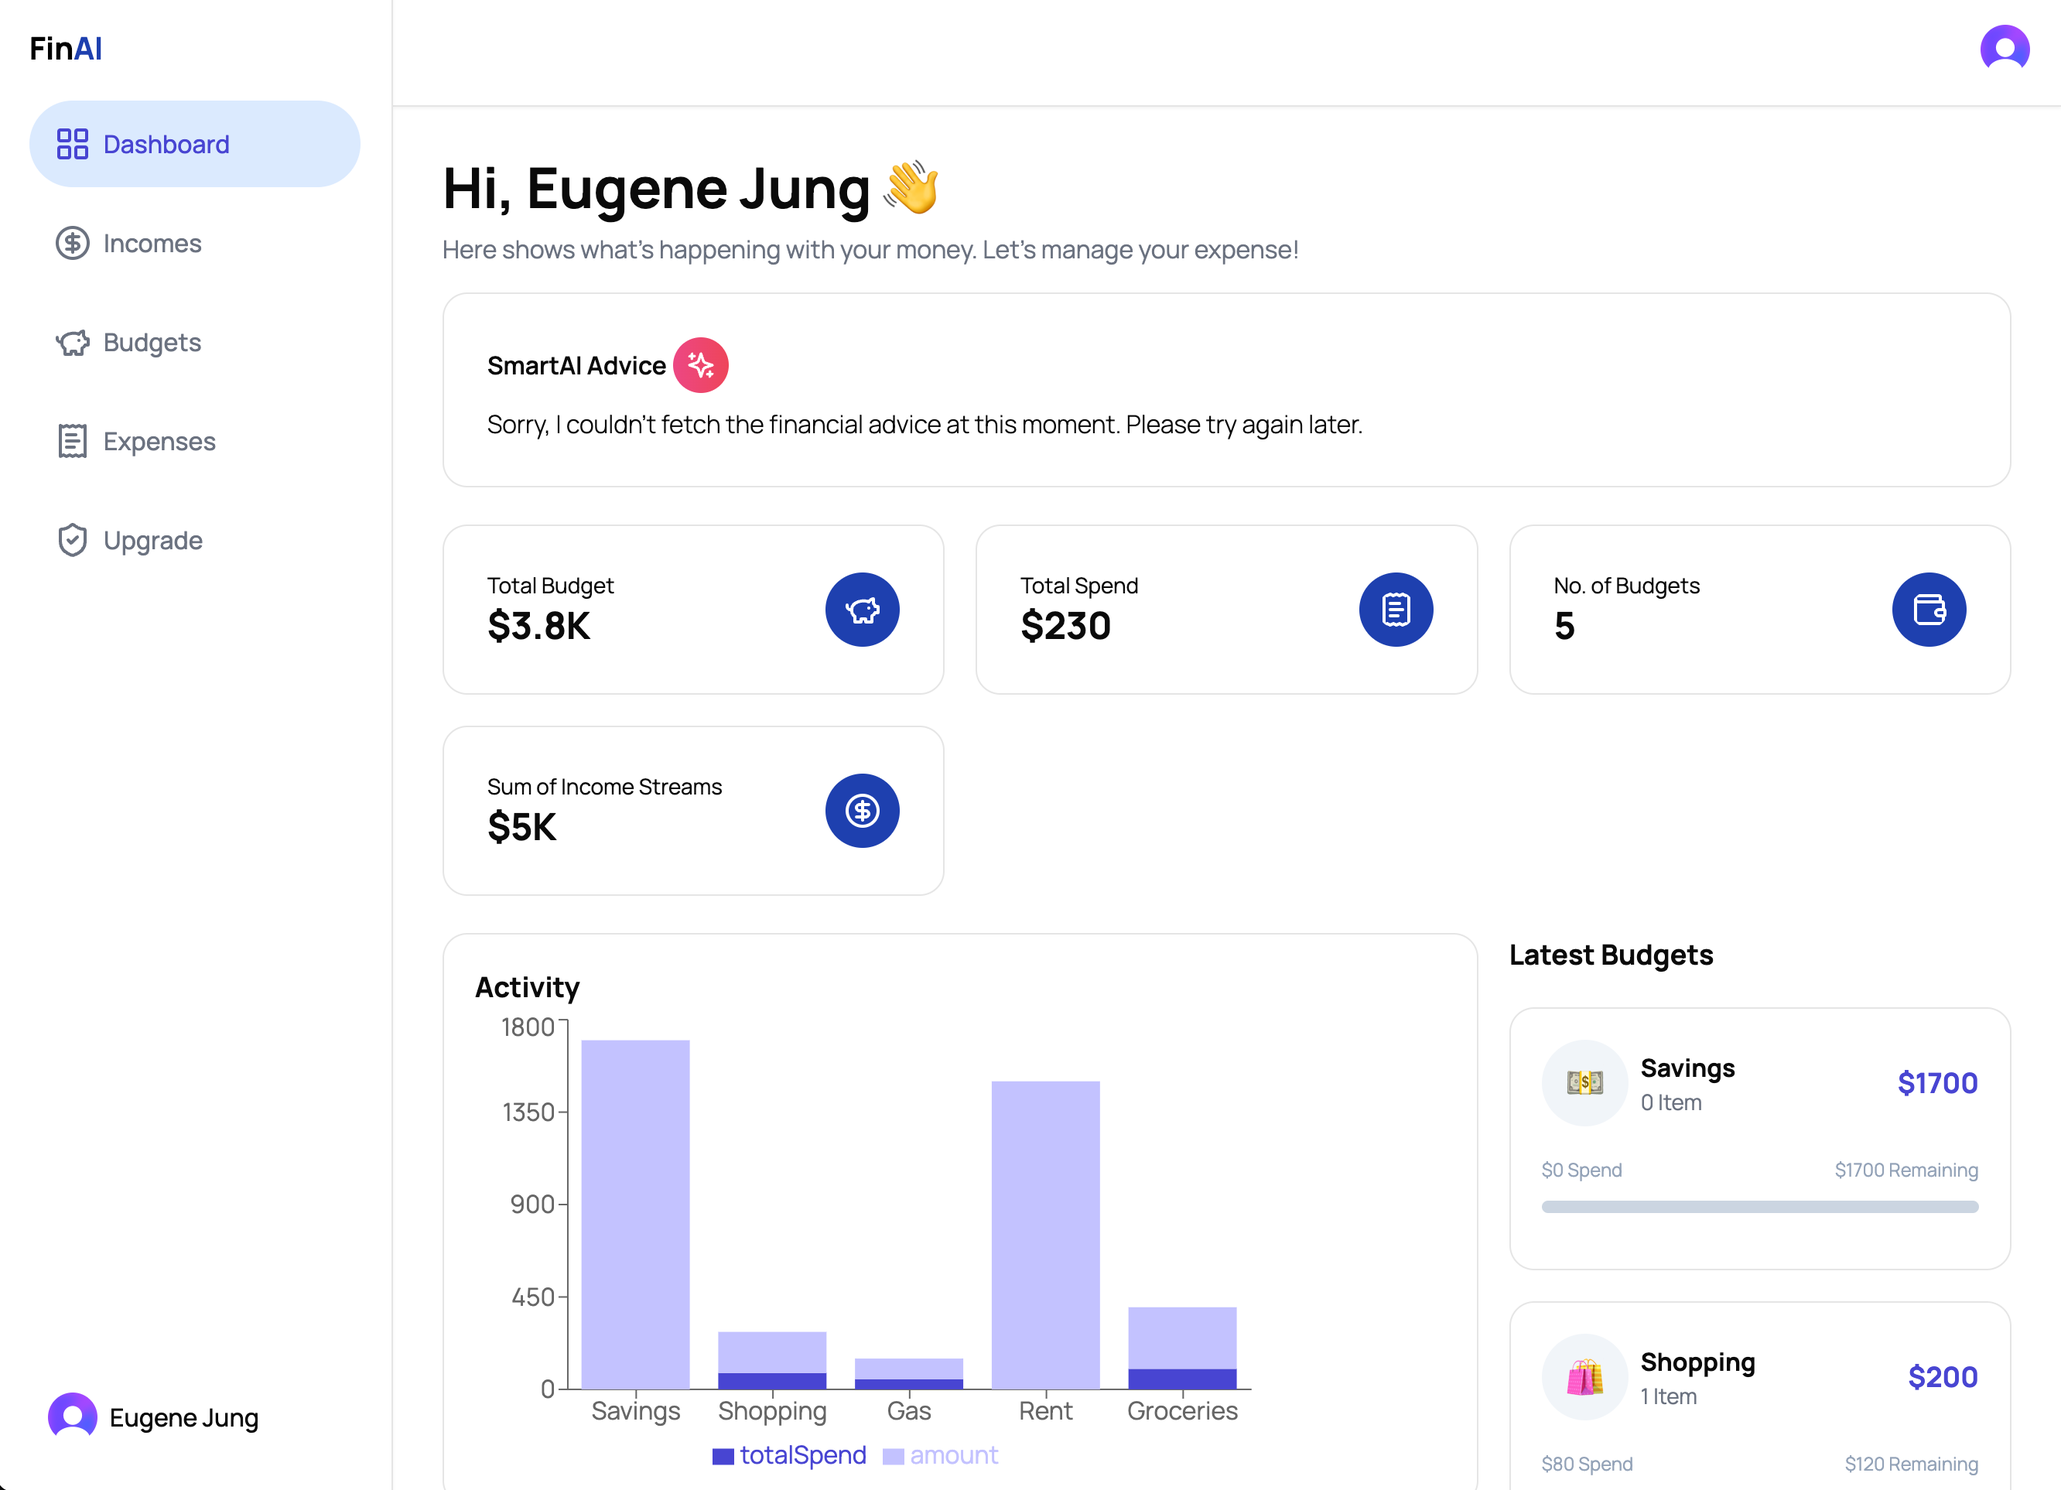
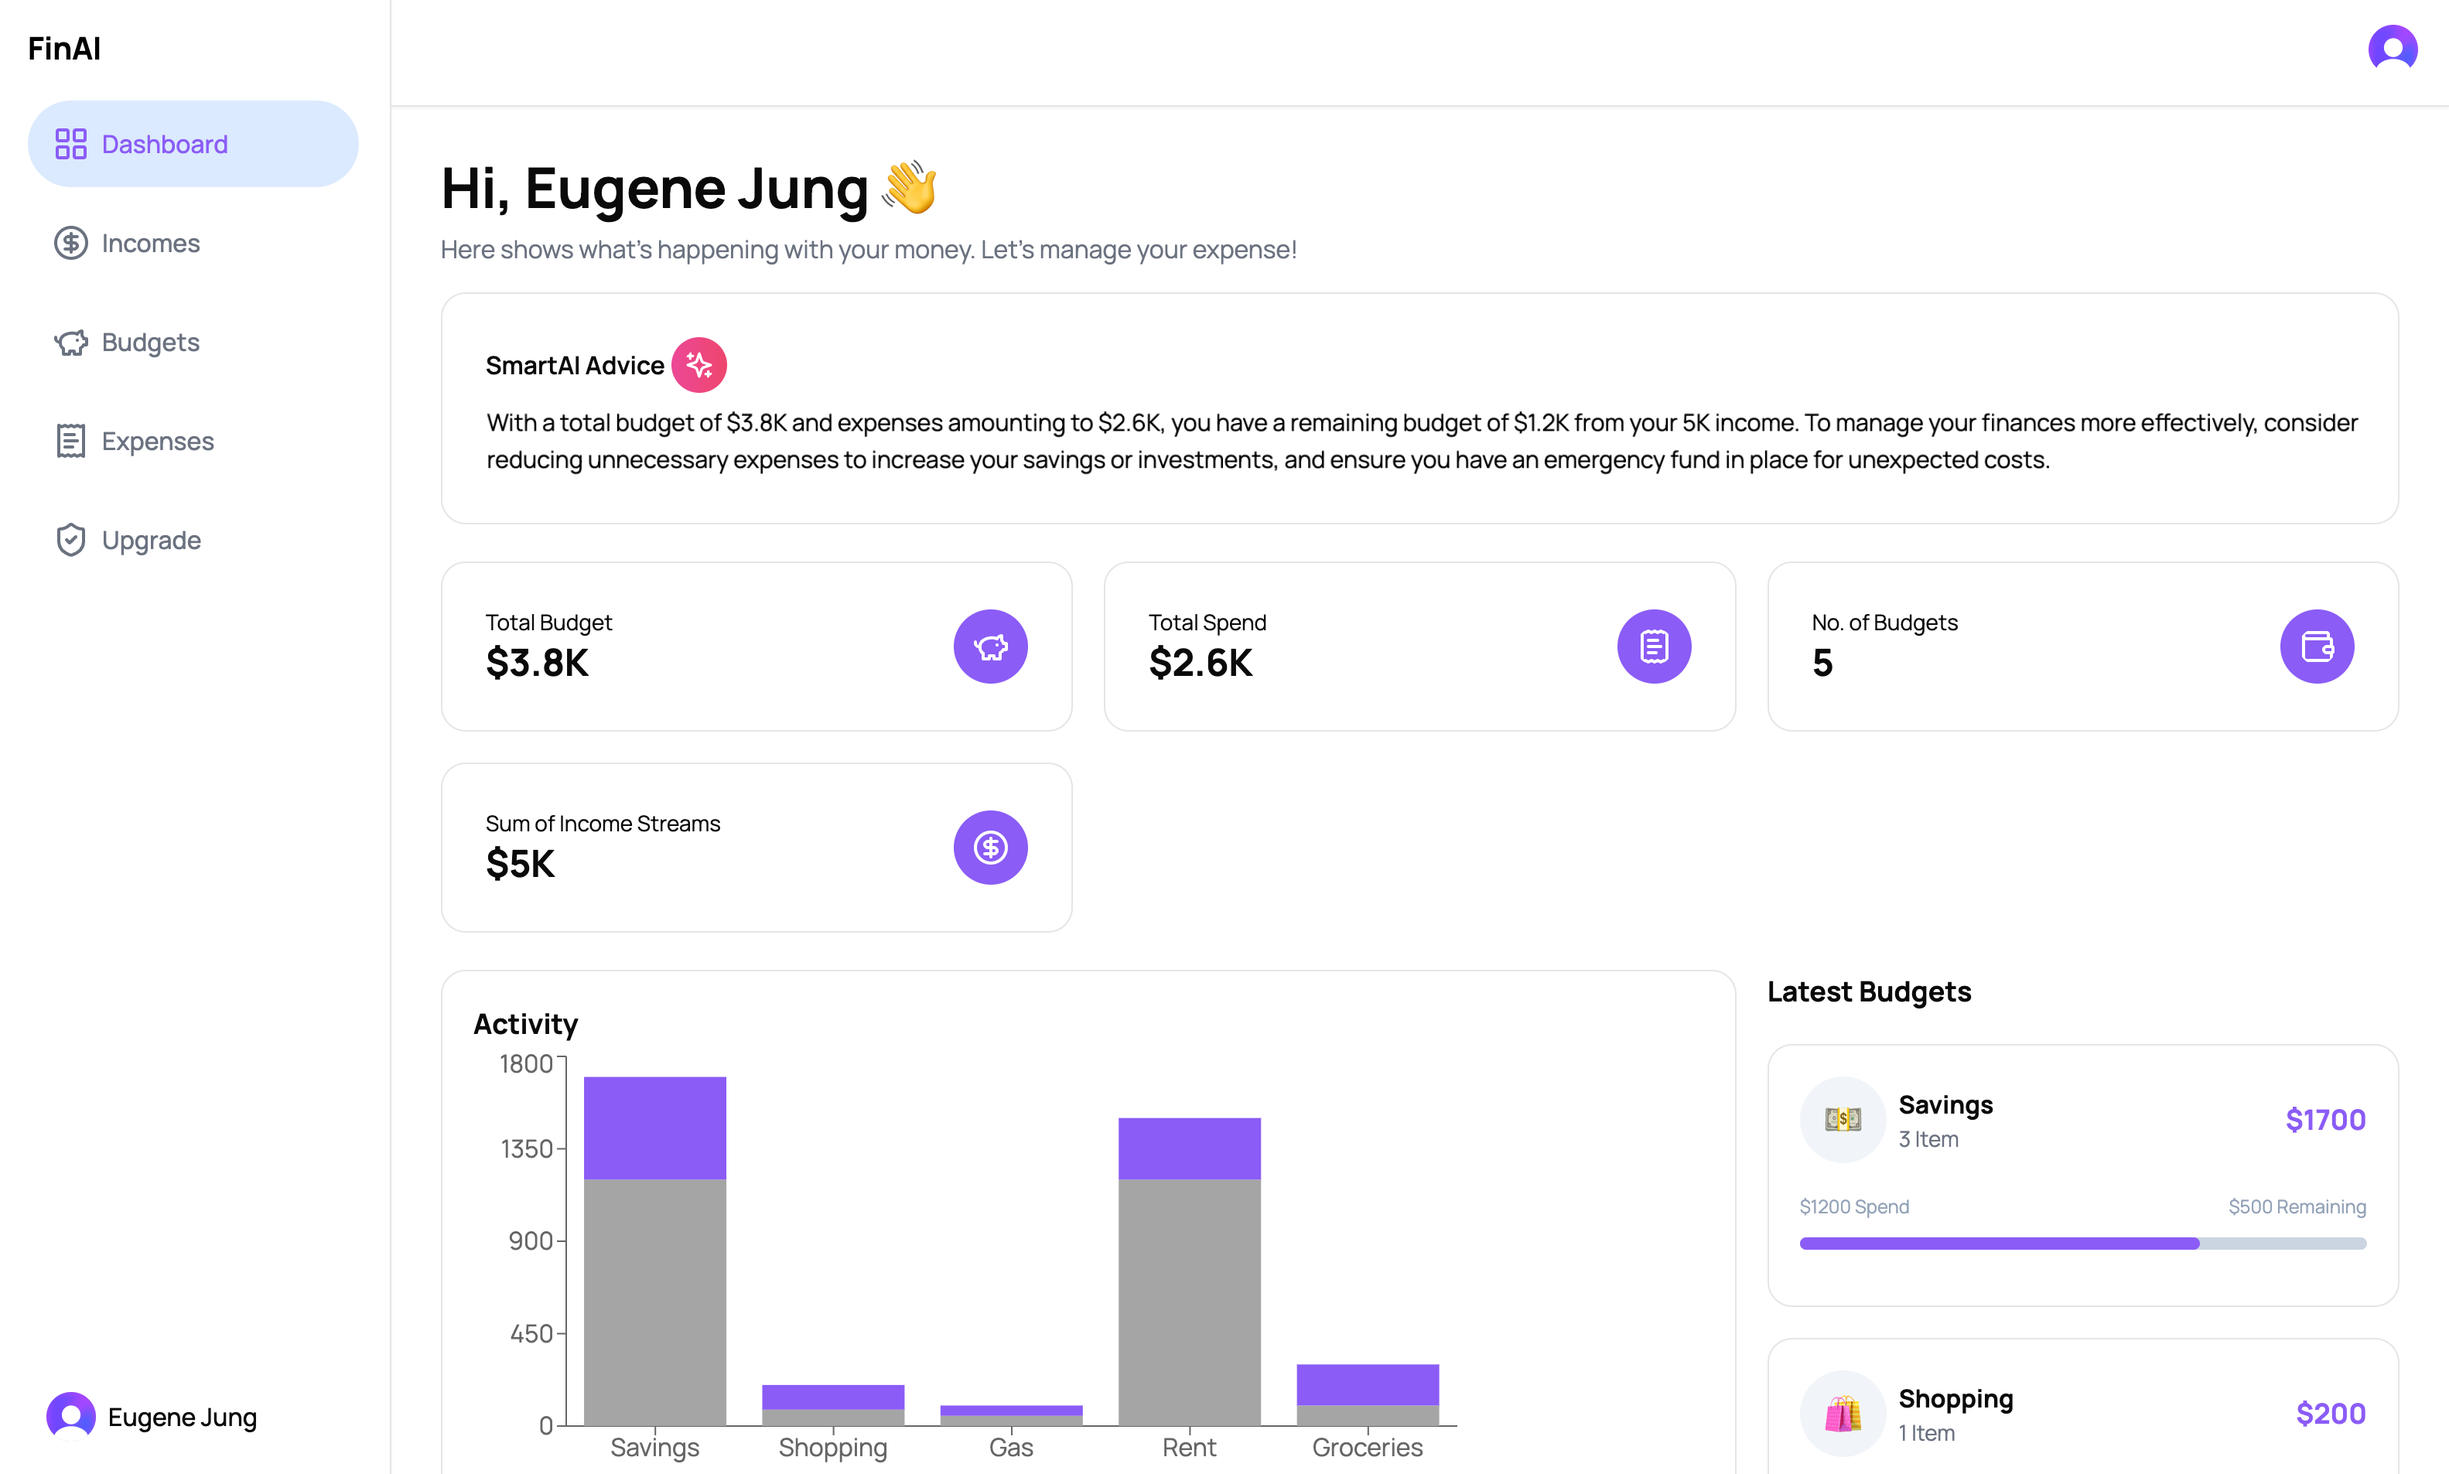
layout and design change

diff --git a/app/(routes)/dashboard/_components/CardInfo.jsx b/app/(routes)/dashboard/_components/CardInfo.jsx
@@ -87,7 +87,7 @@ function CardInfo({ budgetList, incomeList }) {
                   ${formatNumber(totalBudget)}
                 </h2>
               </div>
-              <PiggyBank className="bg-blue-800 p-3 h-12 w-12 rounded-full text-white" />
+              <PiggyBank className="bg-primary p-3 h-12 w-12 rounded-full text-white" />
             </div>
             <div className="p-7 border rounded-2xl flex items-center justify-between">
               <div>
@@ -96,14 +96,14 @@ function CardInfo({ budgetList, incomeList }) {
                   ${formatNumber(totalSpend)}
                 </h2>
               </div>
-              <ReceiptText className="bg-blue-800 p-3 h-12 w-12 rounded-full text-white" />
+              <ReceiptText className="bg-primary p-3 h-12 w-12 rounded-full text-white" />
             </div>
             <div className="p-7 border rounded-2xl flex items-center justify-between">
               <div>
                 <h2 className="text-sm">No. of Budgets</h2>
                 <h2 className="font-bold text-2xl">{budgetList?.length}</h2>
               </div>
-              <Wallet className="bg-blue-800 p-3 h-12 w-12 rounded-full text-white" />
+              <Wallet className="bg-primary p-3 h-12 w-12 rounded-full text-white" />
             </div>
             <div className="p-7 border rounded-2xl flex items-center justify-between">
               <div>
@@ -112,7 +112,7 @@ function CardInfo({ budgetList, incomeList }) {
                   ${formatNumber(totalIncome)}
                 </h2>
               </div>
-              <CircleDollarSign className="bg-blue-800 p-3 h-12 w-12 rounded-full text-white" />
+              <CircleDollarSign className="bg-primary p-3 h-12 w-12 rounded-full text-white" />
             </div>
           </div>
         </div>

diff --git a/app/_components/Header.jsx b/app/_components/Header.jsx
@@ -1,6 +1,5 @@
 "use client";
 import React from "react";
-import Image from "next/image";
 import { Button } from "@/components/ui/button";
 import { useUser, UserButton } from "@clerk/nextjs";
 import Link from "next/link";
@@ -9,13 +8,12 @@ function Header() {
   return (
     <div className="p-5 flex justify-between items-center">
       <div className="flex flex-row items-center">
-        <span className="text-black font-bold text-xl">Fin</span>
-        <span className="text-blue-800 font-bold text-xl">AI</span>
+        <span className="text-black font-bold text-xl">FinAI</span>
       </div>
       {isSignedIn ? (
         <div className="flex gap-3  items-center">
           <Link href={"/dashboard"}>
-            <Button variant="outline" className="rounded-full">
+            <Button className="rounded-full bg-black hover:bg-black">
               Dashboard
             </Button>
           </Link>
@@ -25,12 +23,14 @@ function Header() {
       ) : (
         <div className="flex gap-3  items-center">
           <Link href={"/sign-in"}>
-            <Button variant="outline" className="rounded-full">
+            <Button className="bg-white text-black hover:bg-white">
               Sign in
             </Button>
           </Link>
           <Link href={"/sign-up"}>
-            <Button className="rounded-full">Get Started</Button>
+            <Button className="rounded-full text-black bg-custom hover:bg-custom">
+              Get Started
+            </Button>
           </Link>
         </div>
       )}

diff --git a/app/(routes)/dashboard/_components/SideNav.jsx b/app/(routes)/dashboard/_components/SideNav.jsx
@@ -1,5 +1,4 @@
 import React, { useEffect } from "react";
-import Image from "next/image";
 import {
   LayoutGrid,
   PiggyBank,
@@ -26,19 +25,19 @@ function SideNav() {
       path: "/dashboard/incomes",
     },
     {
-      id: 2,
+      id: 3,
       name: "Budgets",
       icon: PiggyBank,
       path: "/dashboard/budgets",
     },
     {
-      id: 3,
+      id: 4,
       name: "Expenses",
       icon: ReceiptText,
       path: "/dashboard/expenses",
     },
     {
-      id: 4,
+      id: 5,
       name: "Upgrade",
       icon: ShieldCheck,
       path: "/dashboard/upgrade",
@@ -51,14 +50,8 @@ function SideNav() {
   }, [path]);
   return (
     <div className="h-screen p-5 border shadow-sm">
-      {/* <Image src={'/logo.svg'}
-        alt='logo'
-        width={160}
-        height={100}
-        /> */}
       <div className="flex flex-row items-center">
-        <span className="text-black font-bold text-xl">Fin</span>
-        <span className="text-blue-800 font-bold text-xl">AI</span>
+        <span className="text-black font-bold text-xl">FinAI</span>
       </div>
       <div className="mt-5">
         {menuList.map((menu, index) => (

diff --git a/app/(routes)/dashboard/_components/BarChartDashboard.jsx b/app/(routes)/dashboard/_components/BarChartDashboard.jsx
@@ -10,12 +10,19 @@ import {
 } from "recharts";
 
 function BarChartDashboard({ budgetList }) {
+  // Transform the data to label different name instead of "totalSpend" and "amount"
+  const transformedData = budgetList.map((item) => ({
+    ...item,
+    Spend: item.totalSpend,
+    Remaining: item.amount - item.totalSpend,
+  }));
+
   return (
     <div className="border rounded-2xl p-5">
       <h2 className="font-bold text-lg">Activity</h2>
       <ResponsiveContainer width={"80%"} height={300}>
         <BarChart
-          data={budgetList}
+          data={transformedData}
           margin={{
             top: 7,
           }}
@@ -24,8 +31,8 @@ function BarChartDashboard({ budgetList }) {
           <YAxis />
           <Tooltip />
           <Legend />
-          <Bar dataKey="totalSpend" stackId="a" fill="#4845d2" />
-          <Bar dataKey="amount" stackId="a" fill="#C3C2FF" />
+          <Bar dataKey="Spend" stackId="a" fill="#a5a5a5" />
+          <Bar dataKey="Remaining" stackId="a" fill="#8b5cf6" />
         </BarChart>
       </ResponsiveContainer>
     </div>

diff --git a/app/(routes)/dashboard/_components/DashboardHeader.jsx b/app/(routes)/dashboard/_components/DashboardHeader.jsx
@@ -1,18 +1,15 @@
-import { UserButton } from '@clerk/nextjs'
-import React from 'react'
+import { UserButton } from "@clerk/nextjs";
+import React from "react";
 
 function DashboardHeader() {
   return (
-    <div className='p-5 shadow-sm border-b flex justify-between'>
-        <div>
-          
-        </div>
-        <div>
-            <UserButton afterSignOutUrl='/'/>
-        </div>
-       
+    <div className="p-4 shadow-sm border-b flex justify-between">
+      <div></div>
+      <div>
+        <UserButton afterSignOutUrl="/" />
+      </div>
     </div>
-  )
+  );
 }
 
-export default DashboardHeader
+export default DashboardHeader;

diff --git a/app/layout.js b/app/layout.js
@@ -2,6 +2,7 @@ import { Manrope } from "next/font/google";
 import "./globals.css";
 import { ClerkProvider } from "@clerk/nextjs";
 import { Toaster } from "@/components/ui/sonner";
+import icon from "../public/icon.svg";
 
 const font = Manrope({ subsets: ["latin"] });
 
@@ -16,6 +17,9 @@ export default function RootLayout({ children }) {
       publishableKey={process.env.NEXT_PUBLIC_CLERK_PUBLISHABLE_KEY}
     >
       <html lang="en">
+        <head>
+          <link rel="icon" href={icon.src} type="image/svg+xml" />
+        </head>
         <body className={font.className}>
           <Toaster />
           {children}

diff --git a/tailwind.config.js b/tailwind.config.js
@@ -18,13 +18,14 @@ module.exports = {
     },
     extend: {
       colors: {
+        custom: "#dcc8fe",
         border: "hsl(var(--border))",
         input: "hsl(var(--input))",
         ring: "hsl(var(--ring))",
         background: "hsl(var(--background))",
         foreground: "hsl(var(--foreground))",
         primary: {
-          DEFAULT: "#4845d2",
+          DEFAULT: "#8b5cf6",
           foreground: "hsl(var(--primary-foreground))",
         },
         secondary: {

diff --git a/README.md b/README.md
@@ -1,1 +1,7 @@
 ### FinAI: AI-Powered Personal Finance Advisor
+
+what's next?
+
+- integrating a paid plan with advanced features
+- including a search bar at the top to easily navigate through the app
+- add dark mode for improved visuals
